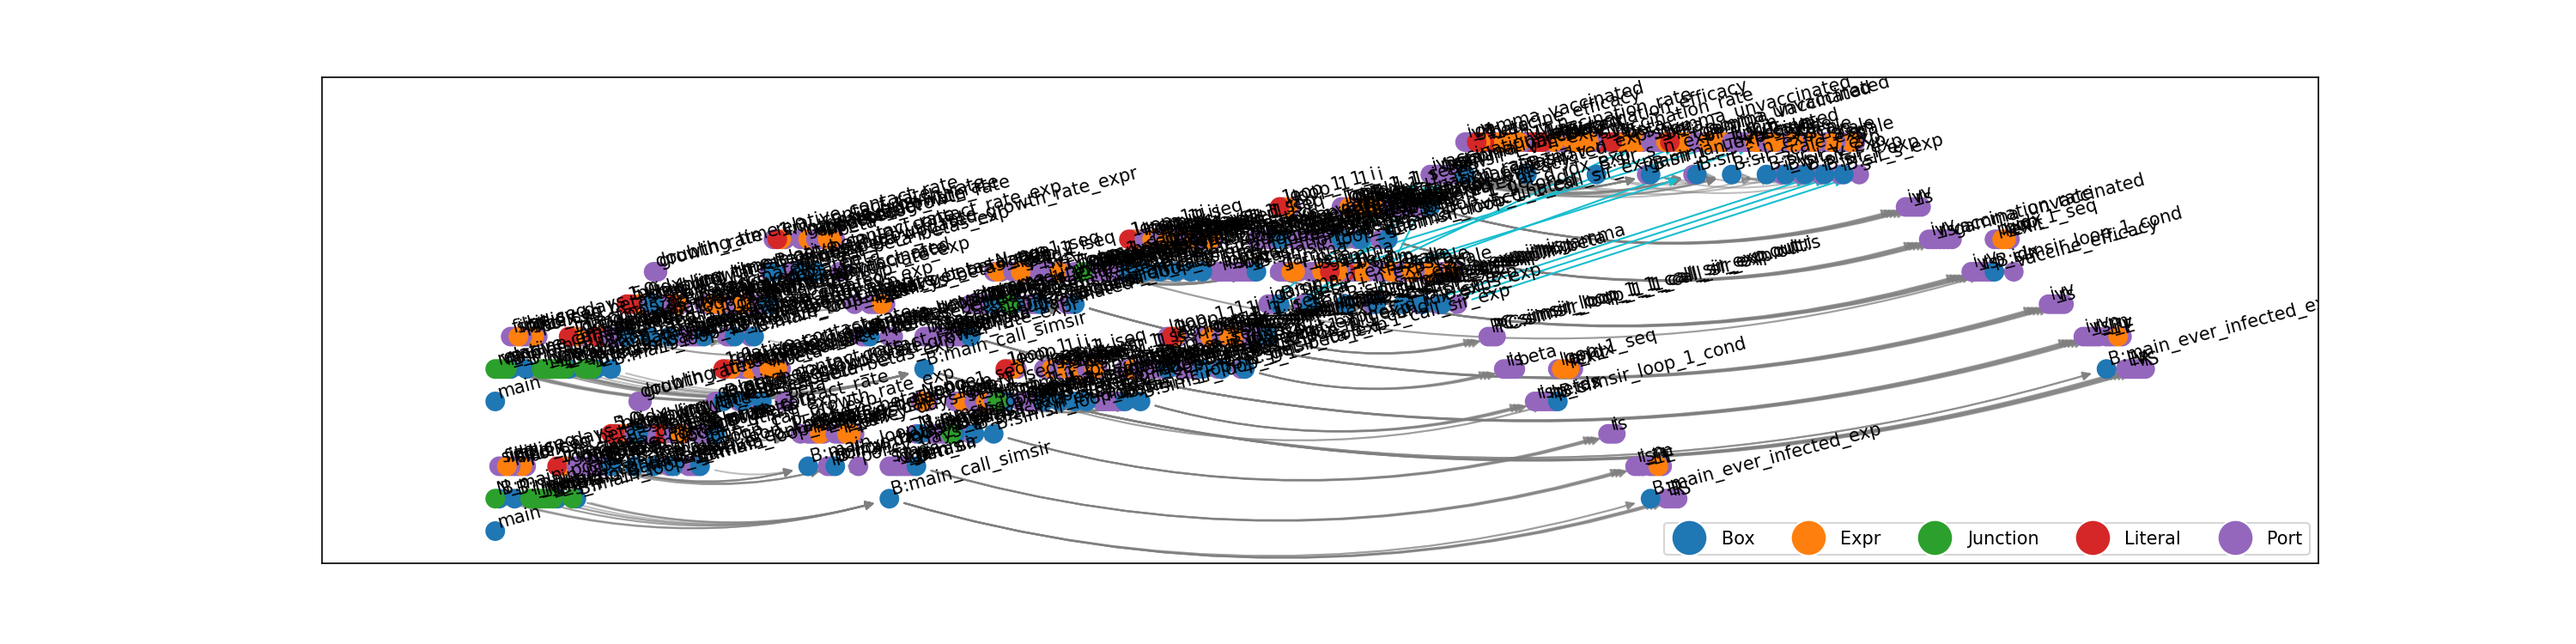
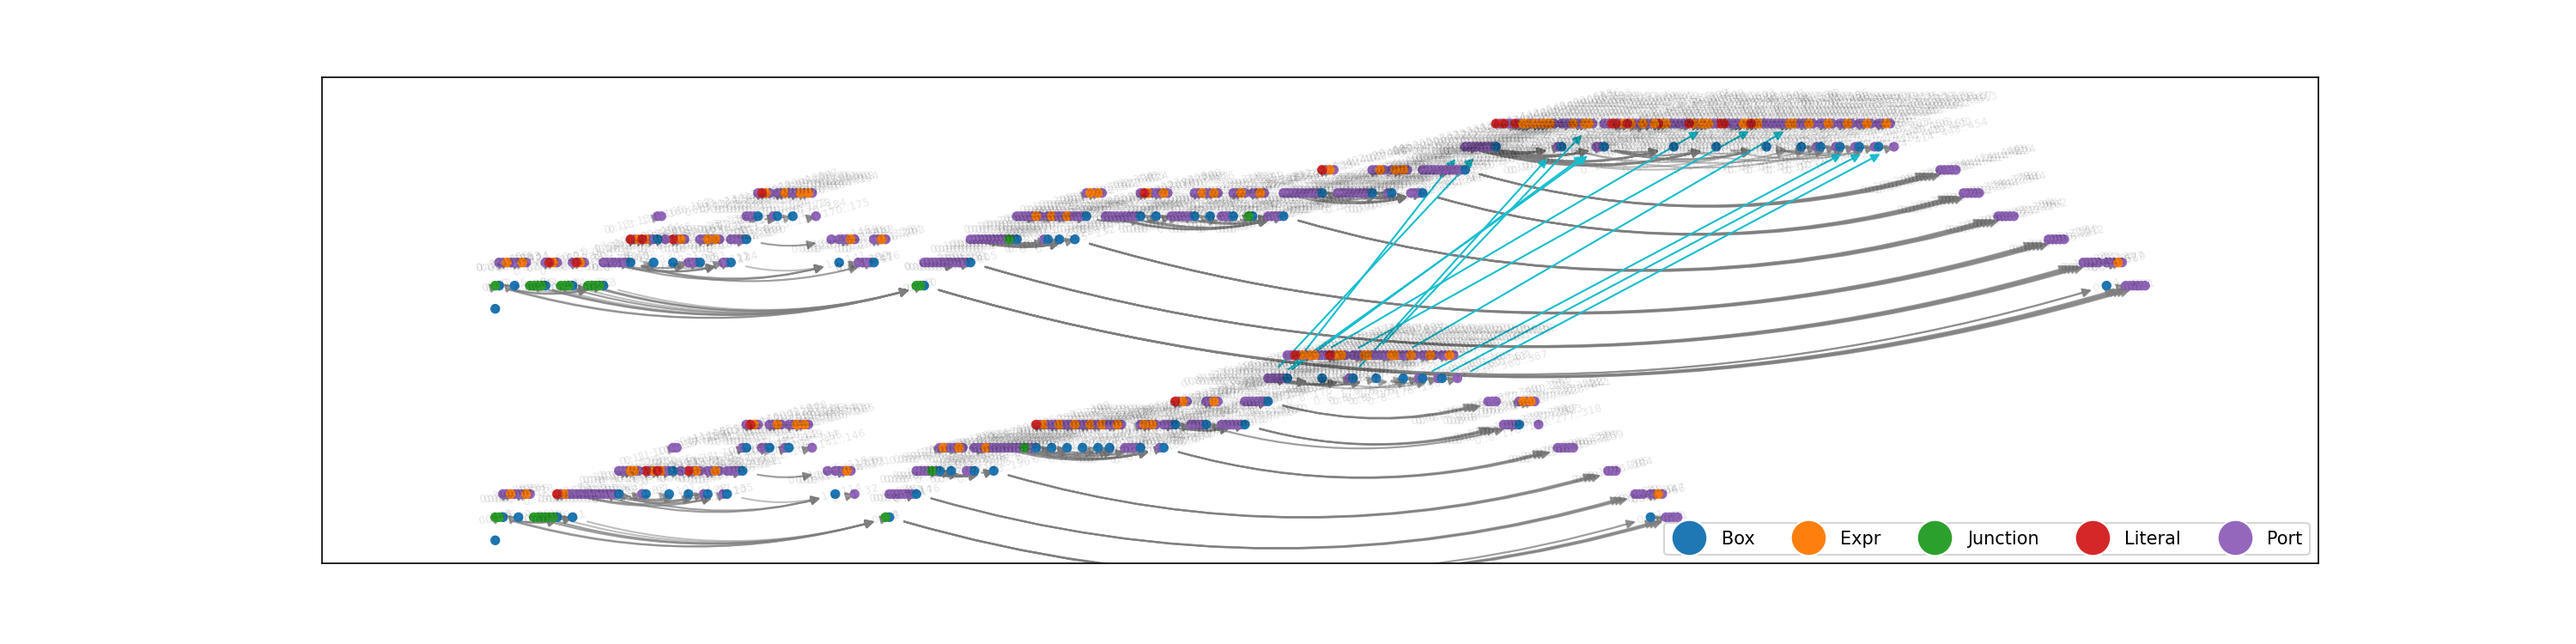
Update comparison figure

diff --git a/gromet/notebooks/9_model_comparison_uaz.py b/gromet/notebooks/9_model_comparison_uaz.py
@@ -237,7 +237,7 @@ def draw_graph(G: Any, pos: Dict, ax: Optional[Any] = None, node_args: Optional[
         
         node_args = {
             # 'node_size': [len(get_node_children_nx(G, node_id = node)) for node in G.nodes],
-            'node_size': [100 for node in G.nodes],
+            'node_size': [20 for node in G.nodes],
             'node_color': [node_types[G.nodes[node]['nodeType']] for node in G.nodes],
             'cmap': 'tab10',
             'vmin': 0,
@@ -458,8 +458,8 @@ __ = G_comp.add_edges_from([
 
 # %%
 # Parallel positions
-p_chime = {node: p + 2 * np.array([0, 1]) for node, p in pos_chime.items()}
-p_sir = {node: p - 2 * np.array([0, 1]) for node, p in pos_sir.items()}
+p_chime = {node: p + 5 * np.array([0, 1]) for node, p in pos_chime.items()}
+p_sir = {node: p - 5 * np.array([0, 1]) for node, p in pos_sir.items()}
 
 
 # # Align mapped nodes
@@ -474,8 +474,8 @@ p_sir = {node: p - 2 * np.array([0, 1]) for node, p in pos_sir.items()}
 
 
 fig, ax = plt.subplots(nrows = 1, ncols = 1, figsize = (20, 5))
-__ = draw_graph(G_chime, pos = p_chime, ax = ax, G_full = G_comp, label_key = 'label')
-__ = draw_graph(G_sir, pos = p_sir, ax = ax, G_full = G_comp, label_key = 'label')
+__ = draw_graph(G_chime, pos = p_chime, ax = ax, G_full = G_comp, label_key = 'label', label_args = {'font_size': 6, 'alpha': 0.1})
+__ = draw_graph(G_sir, pos = p_sir, ax = ax, G_full = G_comp, label_key = 'label', label_args = {'font_size': 6, 'alpha': 0.1})
 
 p_chime = {'CHIME-' + node: val for node, val in p_chime.items() if node != None}
 p_sir = {'SIR-' + node: val for node, val in p_sir.items() if node != None}
@@ -483,7 +483,7 @@ p_comp = {**p_chime, **p_sir}
 
 __ = draw_graph(G = G_comp, pos = p_comp, ax = ax, node_args = {}, label_args = {}, legend_args = {}, edge_args = {'edge_color': 'tab:cyan', 'alpha': 1.0})
 # __ = plt.setp(ax, ylim = (-3, 5))
-__ = plt.setp(ax, ylim = (-3, 12))
+__ = plt.setp(ax, ylim = (-6, 15))
 
 # fig.savefig(f'../figures/comparison_SimpleSIR_CHIME_FN.png', dpi = 150)
 fig.savefig(f'../figures/comparison_SIRBase_SVIIR.png', dpi = 150)
